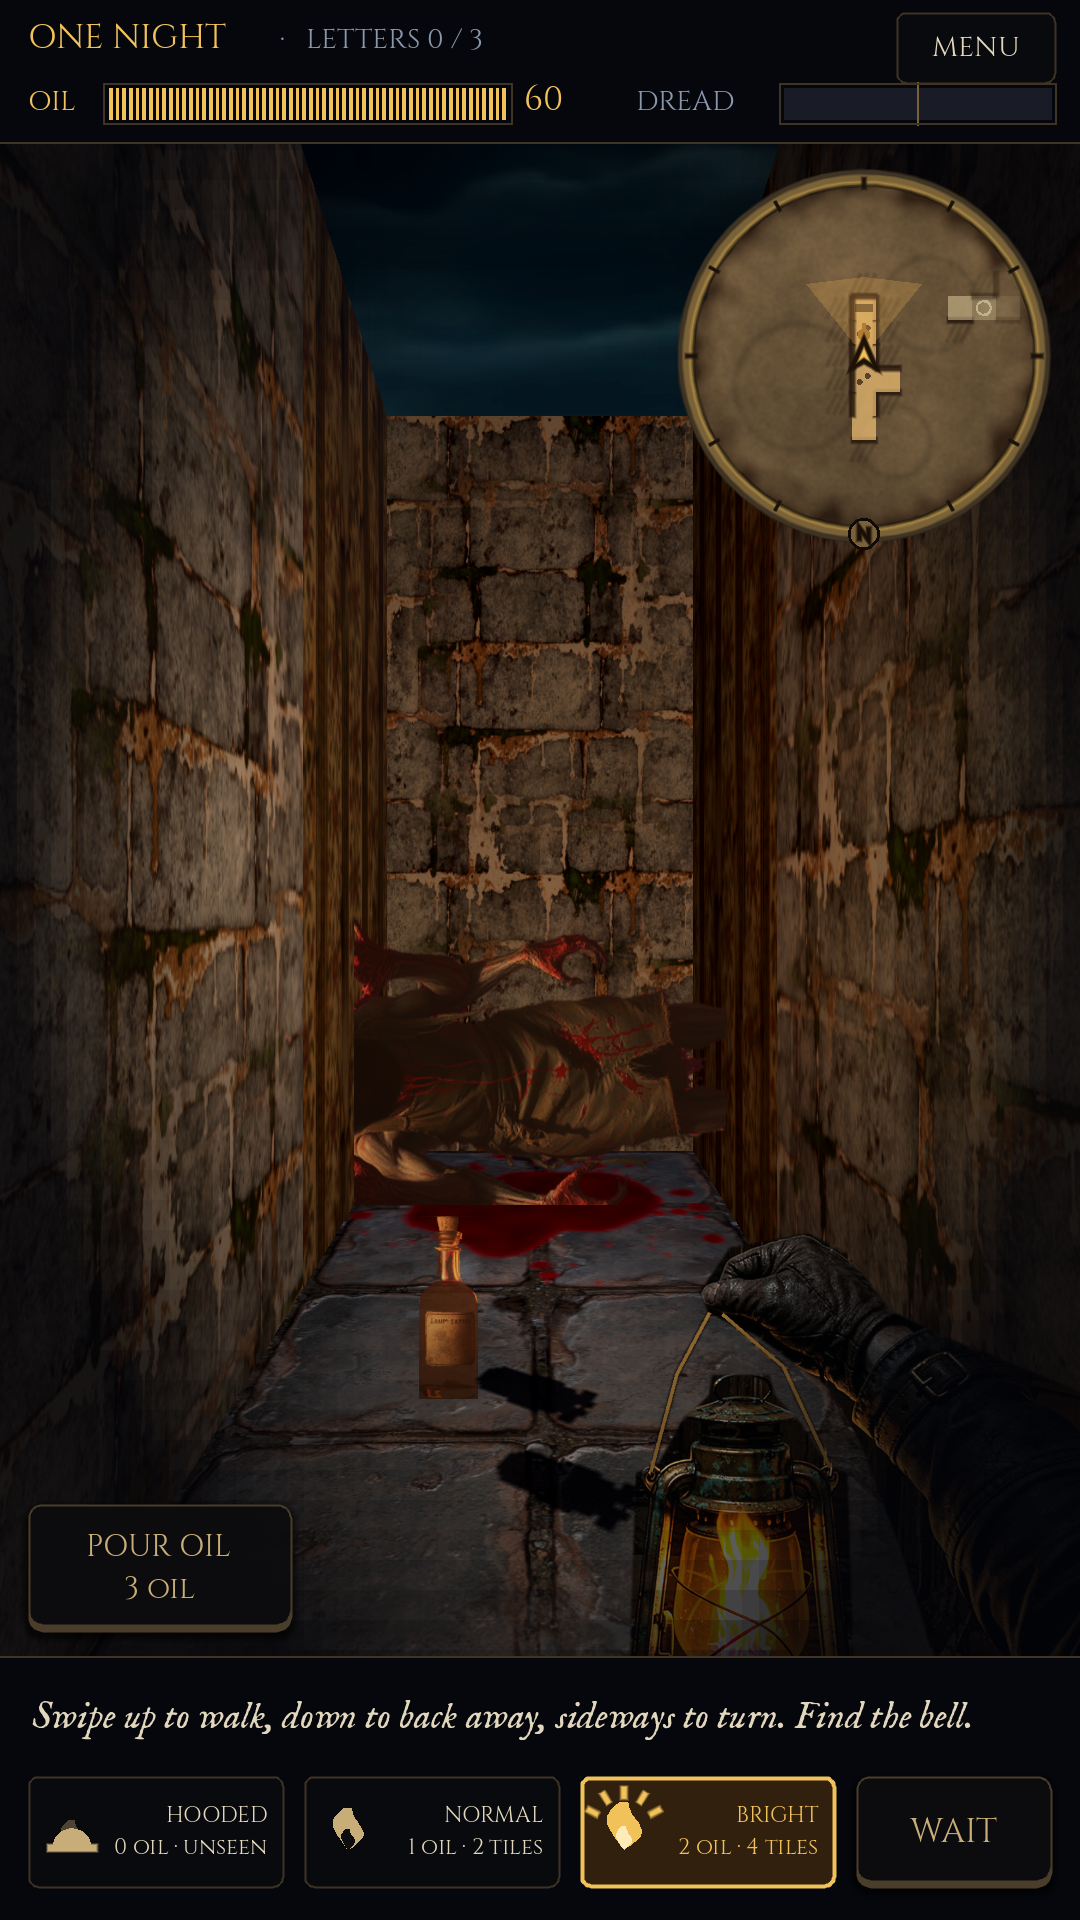
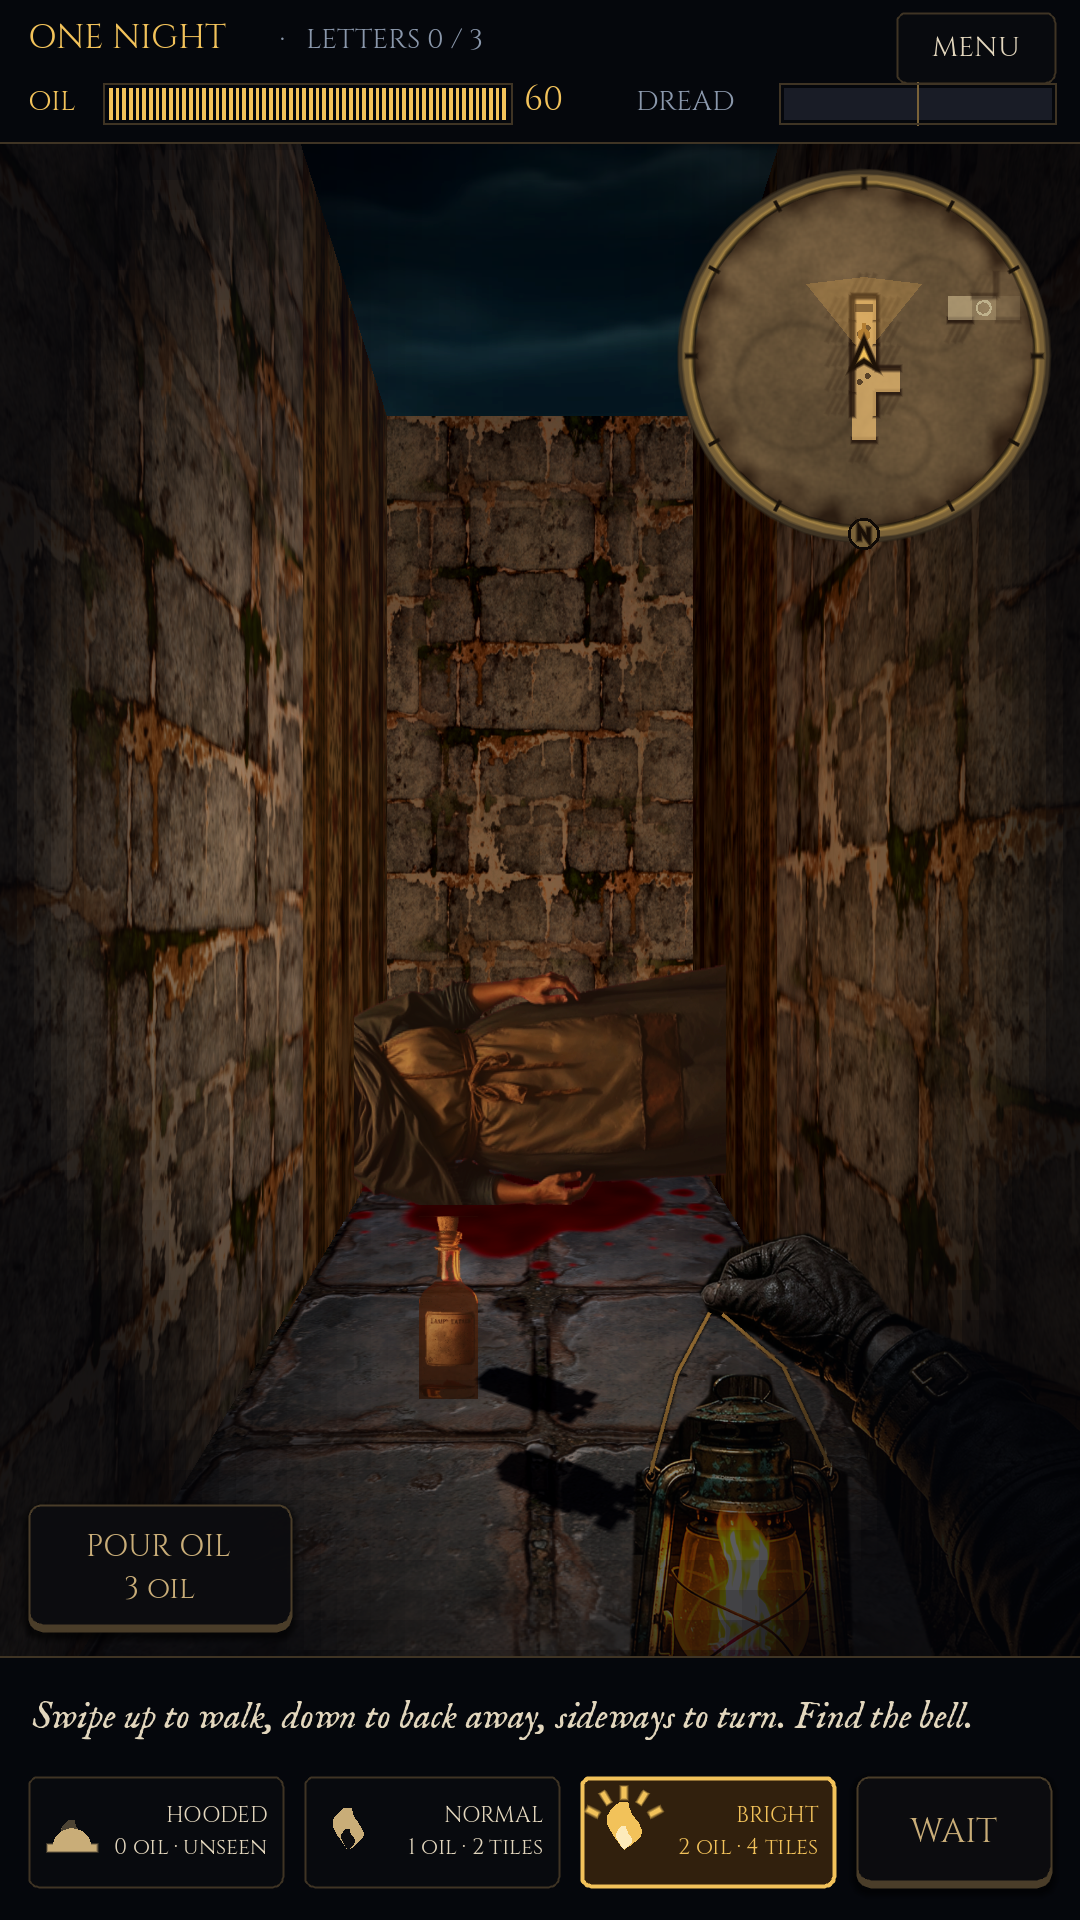
Nightmare thrall: lead look + new lunge/kill-shot frame (#28)
Claude-Session: https://claude.ai/code/session_01V3sbxP4aQxBHMh6HZYfpgo

Changed region(s): [[0.3056, 0.4688, 0.6417, 0.625]]

diff --git a/CLAUDE.md b/CLAUDE.md
@@ -329,6 +329,10 @@ Owner: Duff. Read this first; it is the handoff between sessions.
   `tools/gen_map_parchment.py`, drawn as a TextureRect under the map: drawing it with draw_texture_rect lost its alpha in
   the capture), inked walls + hatching, brass compass ring, turns with you (`map_rot`); MENU -> MAP: NORTH UP, saved in
   [controls] map_north_up.
+- **Nightmare thrall (Nov 19, Duff: "make that sprite the most horrifying thing you can"):** `thrall_nightmare` (first in
+  `THRALL_LOOKS`, 2.2 tall via meta `tall`: sack head stitched with fishhooks, ribs torn open, claws) and `thrall_lunge_nightmare`
+  (now `THRALL_LUNGE`: sack mouth split open, ribs like a jaw; lunge + kill shot). Forge's auto magenta key ate dark bodies, so
+  these were rendered WITHOUT `key` and cut out with rembg `isnet-general-use` (pip install "rembg[cpu]"): clean on painted backdrops.
 - **Art needs: `docs/art_needs.md`** (prioritized P0/P1/P2 for the slice, then the full game, with
   sizes and why). Shared copy for Duff's art team: Claude Doc https://claude.ai/artifact/1UXeTCHVCWkMg9qgRMq6bj.
   P0 = app icon (APK + home screen still show the Godot robot), sky over the alleys, wall tops.
